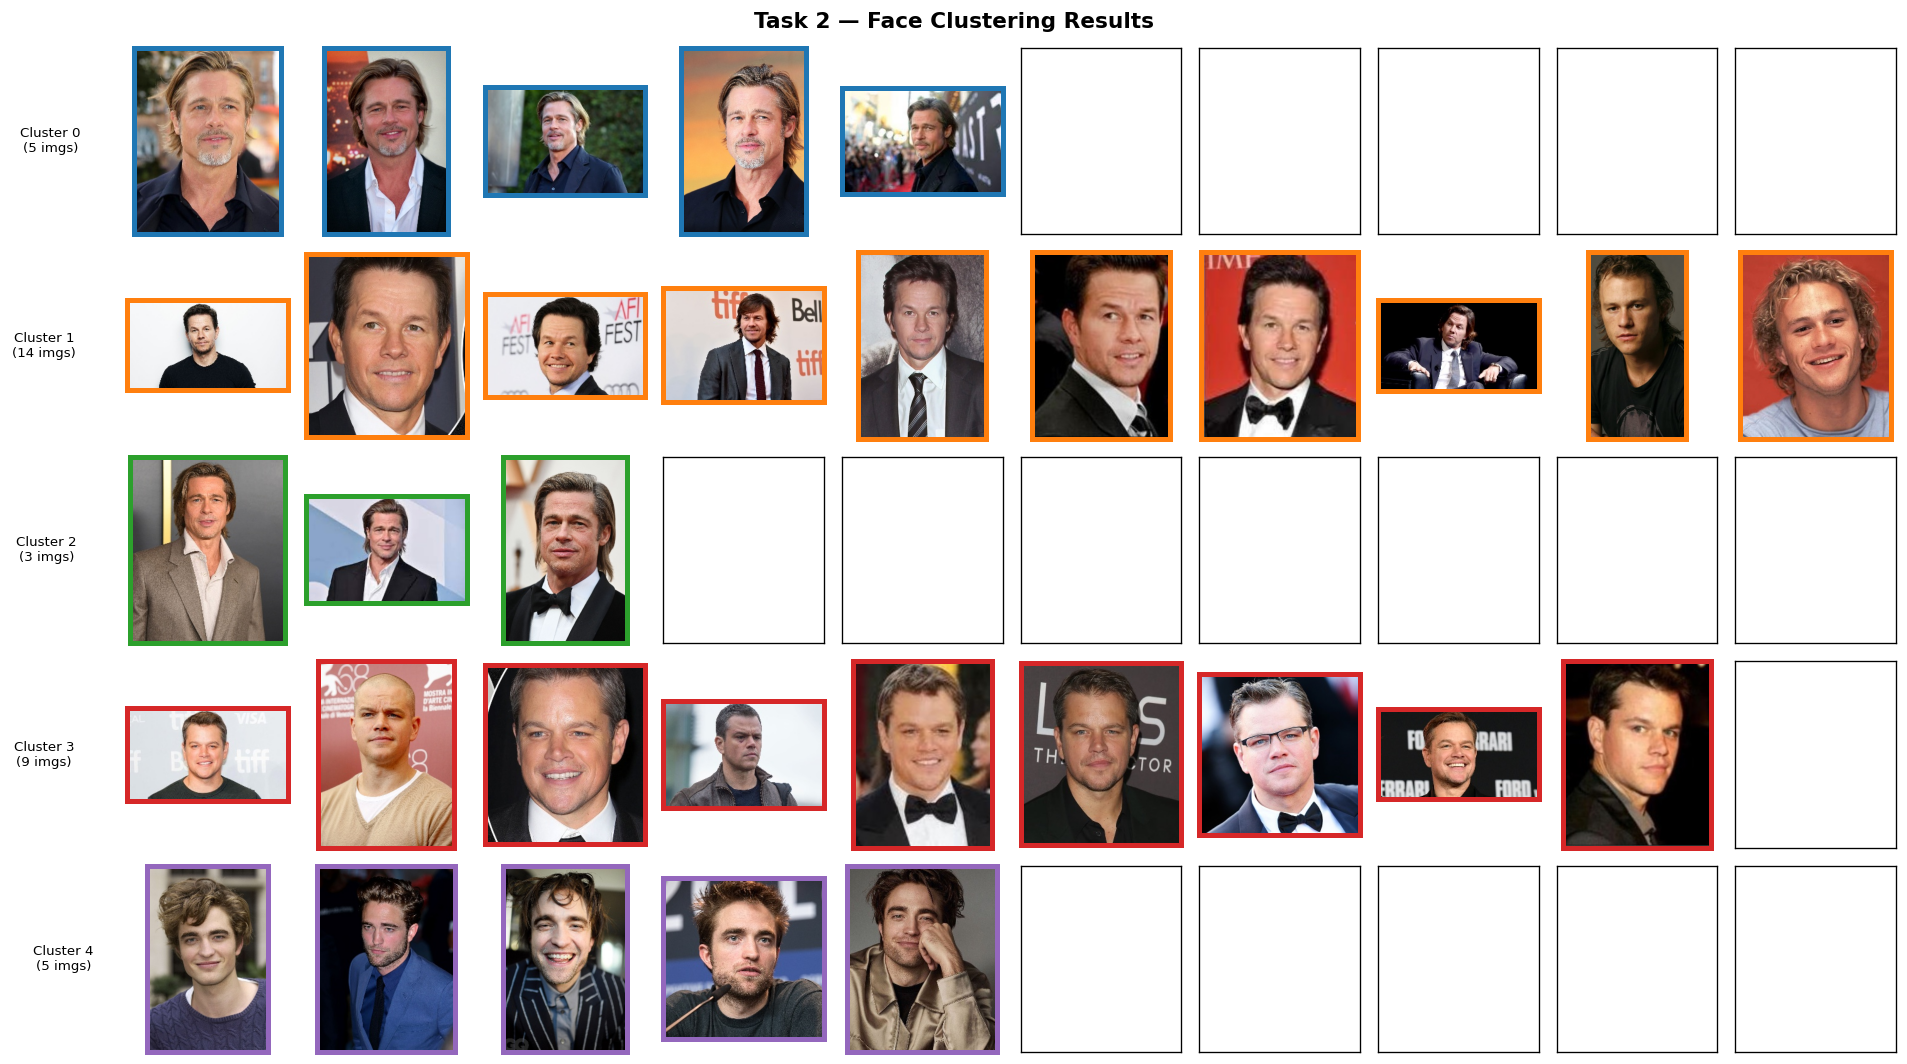
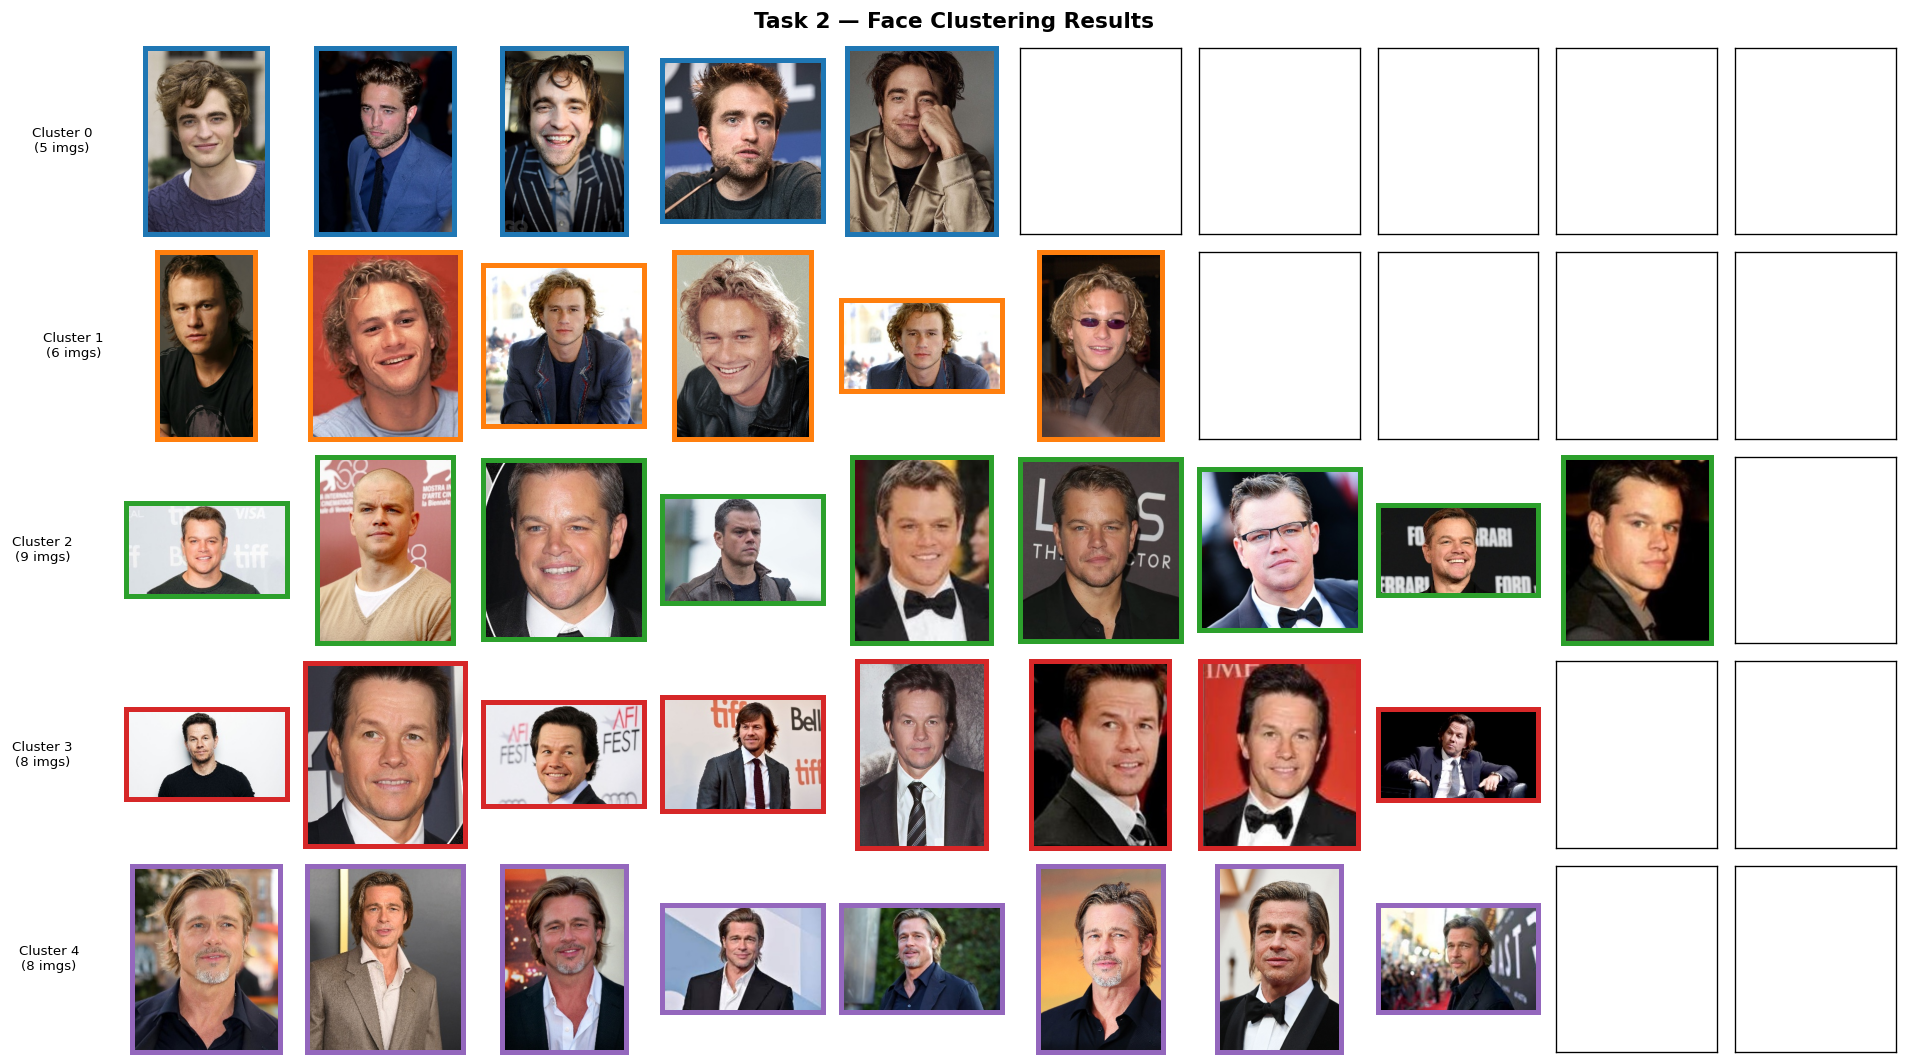
task2 - Added 10 K-mean runs loop to avoid bad cluster initialization - Added safeguard to avoid NaN errors from clusters with 0 points

diff --git a/face.py b/face.py
@@ -44,7 +44,7 @@ def detect_faces(img: torch.Tensor) -> List[List[float]]:
     # Find face locations
     face_locations = face_recognition.face_locations(img_face)
     # Convert back to torch tensors
-    torch.tensor(face_locations)
+    face_locations = torch.tensor(face_locations)
     # Extract (topleft_y, bottomright_x, bottomright_y, topleft_x) format 
     for face in face_locations:
         topleft_y, bottomright_x, bottomright_y, topleft_x = face
@@ -57,8 +57,6 @@ def detect_faces(img: torch.Tensor) -> List[List[float]]:
         detection_results.append([topleft_x, topleft_y, box_width, box_height])
 
     return detection_results
-
-
 
 def cluster_faces(imgs: Dict[str, torch.Tensor], K: int) -> List[List[str]]:
     """
@@ -104,34 +102,51 @@ def cluster_faces(imgs: Dict[str, torch.Tensor], K: int) -> List[List[str]]:
     
     # Stack list face tensors into a 2D array
     F = torch.stack(faces)
-    # Randomly select K points as starting cluster centroids
     N = F.shape[0]
-    indices = torch.randperm(N)[:K]
-    centroids = F[indices]
-    # Initialize closest distance labels
-    labels = torch.zeros(N)
-    # Start K-means iterations
-    for _ in range(100):
-        # Compute distances between centroids and surrounding points
-        distances = torch.norm(F.unsqueeze(1) - centroids.unsqueeze(0), dim=2)
-        # Assign each point to the closest centroid
-        new_labels = torch.argmin(distances, dim=1)
-        # Check if labels changed this iteration
-        if torch.equal(labels, new_labels):
-            break
-        # If labels changed, then assign new labels as labels
-        labels = new_labels
-        # Update cluster centroids
-        for cluster in range(K):
-            cluster_points = F[labels == cluster]
-            centroids[cluster] = cluster_points.mean(dim=0)
+    # Initialize variables for iterations
+    best_ssd = float('inf')
+    best_labels = None
     
+    # Run K-means 10 times to avoid bad random initializations
+    for run in range(10):
+        # Randomly select K points as starting cluster centroids
+        indices = torch.randperm(N)[:K]
+        centroids = F[indices].clone() # Clone to avoid modifying the original F
+        # Initialize closest distance labels
+        labels = torch.zeros(N)
+        
+        # Start K-means iterations
+        for _ in range(100):
+            # Compute distances between centroids and surrounding points
+            distances = torch.norm(F.unsqueeze(1) - centroids.unsqueeze(0), dim=2)
+            # Assign each point to the closest centroid
+            new_labels = torch.argmin(distances, dim=1)
+            # Check if labels changed this iteration
+            if torch.equal(labels, new_labels):
+                break
+            # If labels changed, then assign new labels as labels
+            labels = new_labels
+            # Update cluster centroids
+            for cluster in range(K):
+                cluster_points = F[labels == cluster]
+                # Only update if the cluster isn't empty to prevent NaN errors
+                if len(cluster_points) > 0:
+                    centroids[cluster] = cluster_points.mean(dim=0)
+        # Calculate sum of squared distances for this complete run
+        final_distances = torch.norm(F.unsqueeze(1) - centroids.unsqueeze(0), dim=2)
+        min_distances, _ = torch.min(final_distances, dim=1)
+        ssd = torch.sum(min_distances ** 2).item()
+        # If this run is better than previous runs, save it
+        if ssd < best_ssd:
+            best_ssd = ssd
+            best_labels = labels
+    # Overwrite labels with the best performing run
+    labels = best_labels
     # Build final cluster results list
     for i, label in enumerate(labels.tolist()):
         cluster_results[label].append(img_names[i])
     
     return cluster_results
-
 
 '''
 If your implementation requires multiple functions. Please implement all the functions you design under here.
